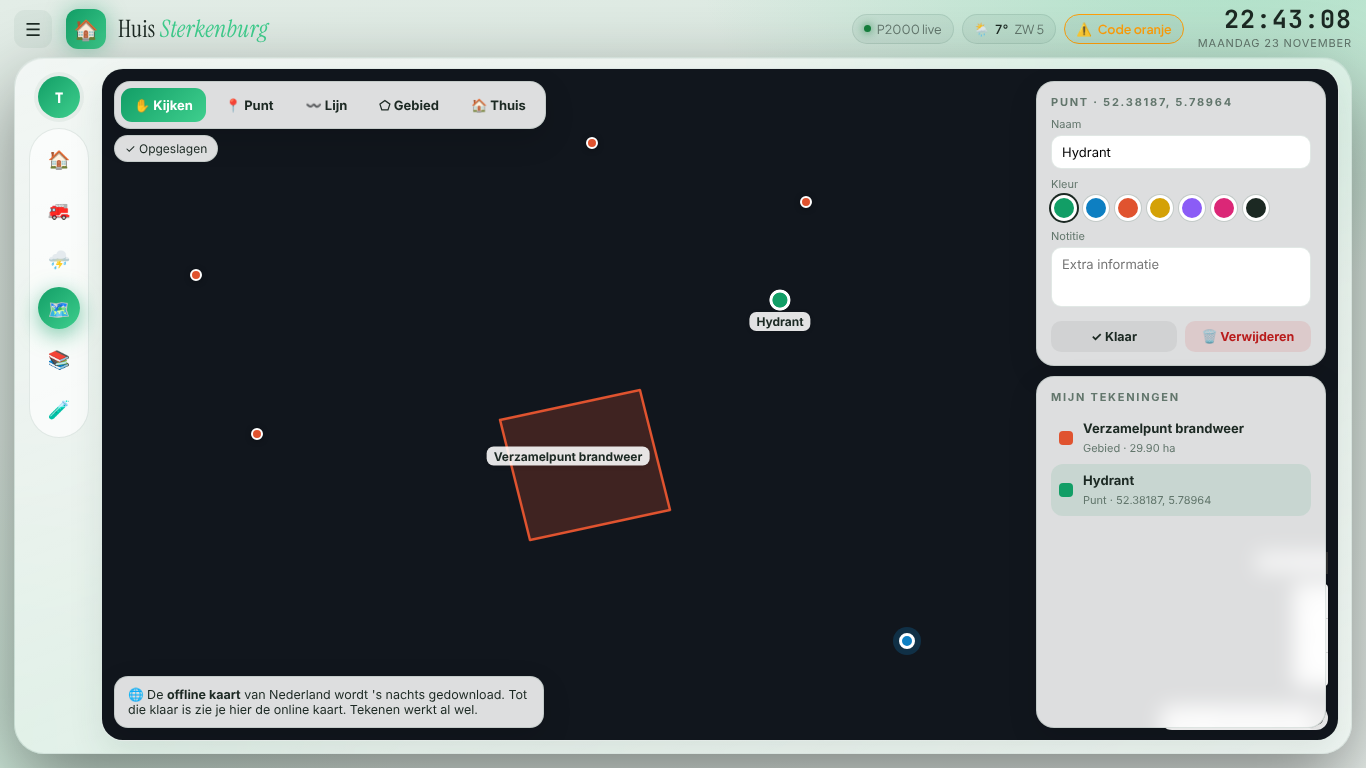
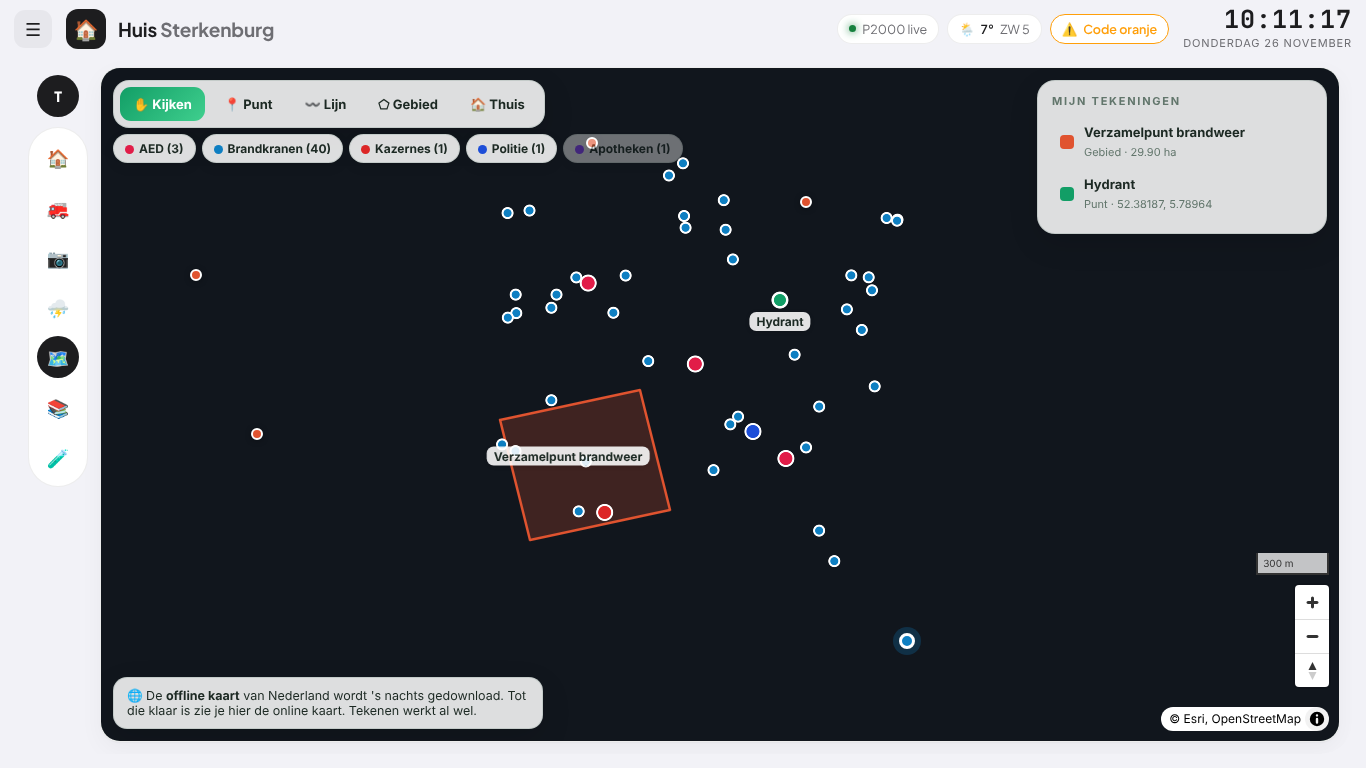
Thuisserver: startpagina voor de telefoon, noodkaart, Pi-hole en Tailscale
- Startpagina op poort 80 (via Caddy) met links naar dashboard, noodkaart,
  bibliotheek, meldkamer, weer, Pi-hole en camera's; als app op beginscherm
- Noodkaart: AED's, brandkranen, kazernes, ziekenhuizen, politie, apotheken
  en verzamelpunten uit OpenStreetMap, wekelijks ververst, aan/uit te zetten
- Pi-hole (poort 8081) en Tailscale met inloglink op de startpagina
- diensten.sh wordt door de automatische update geïnstalleerd
- Dashboard opent een tabblad via ?tab=

Claude-Session: https://claude.ai/code/session_0195ypcEwPeemUQZa3YdvhVV

diff --git a/meldkamer/start/index.html b/meldkamer/start/index.html
@@ -1,0 +1,115 @@
+<!doctype html>
+<html lang="nl">
+<head>
+<meta charset="utf-8">
+<meta name="viewport" content="width=device-width, initial-scale=1, viewport-fit=cover">
+<meta name="apple-mobile-web-app-capable" content="yes">
+<meta name="apple-mobile-web-app-title" content="Thuis">
+<meta name="theme-color" content="#f2f2f7" media="(prefers-color-scheme: light)">
+<meta name="theme-color" content="#000000" media="(prefers-color-scheme: dark)">
+<link rel="manifest" href="manifest.json">
+<link rel="apple-touch-icon" href="apple-touch-icon.png">
+<link rel="icon" href="icoon.svg">
+<title>Huis Sterkenburg</title>
+<style>
+  :root{--bg:#f2f2f7;--kaart:#fff;--tekst:#1d1d1f;--zacht:#6e6e73;--rand:rgba(0,0,0,.07);--accent:#1d1d1f;--opaccent:#fff;--goed:#16a34a;--let:#d97706}
+  @media (prefers-color-scheme: dark){:root{--bg:#000;--kaart:#1c1c1e;--tekst:#f5f5f7;--zacht:#98989d;--rand:rgba(255,255,255,.08);--accent:#f5f5f7;--opaccent:#000;--goed:#30d158;--let:#ff9f0a}}
+  *{box-sizing:border-box}
+  body{margin:0;background:var(--bg);color:var(--tekst);font-family:-apple-system,BlinkMacSystemFont,"Plus Jakarta Sans",Inter,system-ui,sans-serif;-webkit-font-smoothing:antialiased}
+  main{max-width:720px;margin:0 auto;padding:calc(env(safe-area-inset-top) + 22px) 16px calc(env(safe-area-inset-bottom) + 30px)}
+  h1{margin:0;font-size:32px;letter-spacing:-.02em}
+  .sub{color:var(--zacht);margin:4px 0 22px;font-size:15px}
+  .raster{display:grid;grid-template-columns:1fr 1fr;gap:12px}
+  a.tegel{display:flex;flex-direction:column;gap:10px;padding:16px;border-radius:20px;background:var(--kaart);border:1px solid var(--rand);text-decoration:none;color:inherit;min-height:124px;transition:transform .15s}
+  a.tegel:active{transform:scale(.97)}
+  .ic{width:44px;height:44px;border-radius:13px;display:grid;place-items:center;font-size:22px;background:var(--bg)}
+  .tegel b{font-size:16px}
+  .tegel small{color:var(--zacht);font-size:13px;line-height:1.35}
+  .tegel.breed{grid-column:1/-1;flex-direction:row;align-items:center;min-height:0}
+  .tegel.breed .ic{flex:none}
+  h2{font-size:13px;letter-spacing:.08em;text-transform:uppercase;color:var(--zacht);margin:26px 4px 10px}
+  .blok{background:var(--kaart);border:1px solid var(--rand);border-radius:20px;padding:16px;font-size:14.5px;line-height:1.5}
+  .blok + .blok{margin-top:10px}
+  .stip{display:inline-block;width:9px;height:9px;border-radius:50%;margin-right:6px;background:var(--zacht)}
+  .stip.aan{background:var(--goed)} .stip.let{background:var(--let)}
+  .knop{display:inline-block;margin-top:10px;padding:10px 16px;border-radius:12px;background:var(--accent);color:var(--opaccent);text-decoration:none;font-weight:700;font-size:14px}
+  code{font-size:13px;background:var(--bg);padding:2px 6px;border-radius:6px}
+  ol{margin:6px 0 0;padding-left:20px} li{margin:4px 0}
+</style>
+</head>
+<body>
+<main>
+  <h1>Huis Sterkenburg</h1>
+  <div class="sub" id="sub">Alles op één plek</div>
+
+  <div class="raster">
+    <a class="tegel breed" id="l-dashboard"><span class="ic">🏠</span><div><b>Dashboard</b><br><small>Lampen, rolluiken, meldingen en weer</small></div></a>
+    <a class="tegel" id="l-kaart"><span class="ic">🗺</span><b>Noodkaart</b><small>AED's, brandkranen, ziekenhuizen en je eigen tekeningen</small></a>
+    <a class="tegel" id="l-bieb"><span class="ic">📚</span><b>Bibliotheek</b><small>Wikipedia, EHBO, survival en reparatie, ook zonder internet</small></a>
+    <a class="tegel" id="l-meldkamer"><span class="ic">🚒</span><b>Meldkamer</b><small>Uitrukken post Nunspeet en politie in de buurt</small></a>
+    <a class="tegel" id="l-weer"><span class="ic">⛈</span><b>Weer & storm</b><small>Buienradar, verwachting en gevarenrisico</small></a>
+    <a class="tegel" id="l-pihole"><span class="ic">🛡</span><b>Reclameblokker</b><small id="pihole-tekst">Pi-hole: hoeveel reclame er is tegengehouden</small></a>
+    <a class="tegel" id="l-cams"><span class="ic">📷</span><b>Camera's</b><small>Alle camera's live</small></a>
+  </div>
+
+  <h2>Buiten de deur</h2>
+  <div class="blok" id="tailscale">Status wordt geladen…</div>
+
+  <h2>Reclame blokkeren op je iPhone</h2>
+  <div class="blok">
+    Thuis op de wifi:
+    <ol>
+      <li>Instellingen → Wifi → tik op <b>ⓘ</b> naast je netwerk</li>
+      <li>DNS configureren → <b>Handmatig</b></li>
+      <li>Verwijder wat er staat en voeg toe: <code id="dns-ip">…</code></li>
+    </ol>
+  </div>
+
+  <h2>Op je beginscherm zetten</h2>
+  <div class="blok">Tik in Safari op <b>Deel</b> (vierkantje met pijl) → <b>Zet op beginscherm</b>. Dan heb je een eigen app-icoontje.</div>
+</main>
+<script>
+  const host = location.hostname;
+  const ha = `http://${host}:8123`;
+  const links = {
+    "l-dashboard": `${ha}/meldkamer?tab=dashboard`,
+    "l-kaart": `${ha}/meldkamer?tab=kaart`,
+    "l-bieb": `http://${host}:8091/`,
+    "l-meldkamer": `${ha}/meldkamer?tab=meldkamer`,
+    "l-weer": `${ha}/meldkamer?tab=weer`,
+    "l-pihole": `http://${host}:8081/admin/`,
+    "l-cams": `${ha}/meldkamer?tab=cams`,
+  };
+  for (const [id, url] of Object.entries(links)) document.getElementById(id).href = url;
+  const u = new Date().getHours();
+  document.getElementById("sub").textContent =
+    (u < 6 ? "Goedenacht" : u < 12 ? "Goedemorgen" : u < 18 ? "Goedemiddag" : "Goedenavond") + " · alles op één plek";
+  const esc = (s) => String(s ?? "").replace(/[&<>"']/g, (c) => ({ "&": "&amp;", "<": "&lt;", ">": "&gt;", '"': "&quot;", "'": "&#39;" }[c]));
+
+  fetch("status.json?t=" + Date.now(), { cache: "no-store" })
+    .then((r) => r.json())
+    .then((st) => {
+      document.getElementById("dns-ip").textContent = st.lan || host;
+      if (st.pihole !== "aan") document.getElementById("pihole-tekst").textContent = "Wordt geïnstalleerd…";
+      const t = st.tailscale || {};
+      const el = document.getElementById("tailscale");
+      if (t.status === "Running" && t.ip) {
+        el.innerHTML = `<span class="stip aan"></span><b>Werkt overal</b><br>
+          Buiten de deur open je deze pagina via <code>http://${esc(t.ip)}/</code> (zet de <b>Tailscale</b>-app aan op je iPhone).
+          <br><a class="knop" href="http://${esc(t.ip)}/">Open via Tailscale</a>`;
+      } else if (t.inloglink) {
+        el.innerHTML = `<span class="stip let"></span><b>Nog één keer inloggen</b><br>
+          <ol><li>Installeer de gratis app <b>Tailscale</b> op je iPhone en log in (bijv. met Google of Apple).</li>
+          <li>Tik hieronder en log met <b>hetzelfde account</b> in om de laptop toe te voegen.</li></ol>
+          <a class="knop" href="${esc(t.inloglink)}" target="_blank" rel="noopener">Laptop koppelen</a>`;
+      } else {
+        el.innerHTML = `<span class="stip"></span>Tailscale wordt geïnstalleerd. Kijk over 10 minuten nog eens.`;
+      }
+    })
+    .catch(() => {
+      document.getElementById("tailscale").textContent = "Status nog niet beschikbaar. Kijk over 10 minuten nog eens.";
+      document.getElementById("dns-ip").textContent = host;
+    });
+</script>
+</body>
+</html>

diff --git a/meldkamer/config/www/meldkamer/kaart.html b/meldkamer/config/www/meldkamer/kaart.html
@@ -37,7 +37,12 @@
   .rij button{flex:1;padding:8px;border-radius:10px;font-weight:700;font-size:12.5px;background:rgba(0,0,0,.05)}
   .rij .weg{background:rgba(220,38,38,.1);color:#b91c1c}
   .melding{position:absolute;left:12px;bottom:12px;z-index:5;max-width:430px;font-size:12.5px;padding:10px 13px;border-radius:14px;background:var(--glas);border:1px solid var(--rand);box-shadow:0 10px 30px rgba(0,0,0,.12)}
-  .opgeslagen{position:absolute;top:66px;left:12px;z-index:5;font-size:12px;padding:5px 10px;border-radius:999px;background:var(--glas);border:1px solid var(--rand);opacity:0;transition:opacity .4s}
+  .lagen{position:absolute;top:66px;left:12px;z-index:5;display:flex;gap:6px;flex-wrap:wrap;max-width:calc(100% - 330px)}
+  .lagen button{padding:6px 11px;border-radius:999px;font-size:12px;font-weight:700;background:var(--glas);border:1px solid var(--rand);box-shadow:0 4px 12px rgba(0,0,0,.08)}
+  .lagen button.uit{opacity:.45}
+  .lagen button i{display:inline-block;width:9px;height:9px;border-radius:50%;margin-right:5px;vertical-align:middle}
+  @media (max-width:700px){.lagen{max-width:calc(100% - 24px)}}
+  .opgeslagen{position:absolute;top:112px;left:12px;z-index:5;font-size:12px;padding:5px 10px;border-radius:999px;background:var(--glas);border:1px solid var(--rand);opacity:0;transition:opacity .4s}
   .opgeslagen.zie{opacity:1}
   .maplibregl-ctrl-group button{width:34px;height:34px}
   @media (max-width:700px){.zij{top:auto;left:12px;width:auto;height:42%}.balk{flex-wrap:wrap;right:12px}}
@@ -54,6 +59,7 @@
   <button id="thuis">🏠 Thuis</button>
 </div>
 <div class="opgeslagen" id="opgeslagen">✓ Opgeslagen</div>
+<div class="lagen" id="lagen"></div>
 <div class="zij">
   <div class="blok" id="editor" style="display:none"></div>
   <div class="blok lijst"><h3>Mijn tekeningen</h3><div id="lijst"></div></div>
@@ -128,7 +134,52 @@
     geladen = true;
     laad();
     thuisPunt();
+    noodLaag();
   };
+
+  // ---------- noodlaag uit OpenStreetMap ----------
+  const SOORTEN = {
+    aed: ["❤ AED", "#e11d48"], brandkraan: ["🚒 Brandkranen", "#0e7fc2"], kazerne: ["🏠 Kazernes", "#dc2626"],
+    ziekenhuis: ["🏥 Ziekenhuizen", "#16a34a"], huisartsenpost: ["🩺 Huisartsenpost", "#0d9488"], politie: ["👮 Politie", "#1d4ed8"],
+    apotheek: ["💊 Apotheken", "#7c3aed"], verzamelpunt: ["🚩 Verzamelpunten", "#d97706"],
+  };
+  const BESCHRIJF = { aed: "AED", brandkraan: "Brandkraan", kazerne: "Brandweerkazerne", ziekenhuis: "Ziekenhuis", huisartsenpost: "Huisartsenpost", politie: "Politie", apotheek: "Apotheek", verzamelpunt: "Verzamelpunt" };
+  let uitgezet;
+  try { uitgezet = JSON.parse(localStorage.getItem("kaart_lagen_uit") || '["brandkraan","apotheek"]'); } catch (e) { uitgezet = ["brandkraan", "apotheek"]; }
+  async function noodLaag() {
+    let data = null;
+    try { const r = await fetch(DATA + "/nood.geojson", { cache: "no-store" }); if (r.ok) data = await r.json(); } catch (e) { data = null; }
+    const balk = document.getElementById("lagen");
+    if (!data || !data.features?.length) { balk.innerHTML = `<button class="uit" disabled>❤ AED's worden 's nachts opgehaald</button>`; return; }
+    map.addSource("nood", { type: "geojson", data });
+    const aanwezig = Object.keys(SOORTEN).filter((k) => data.features.some((f) => f.properties.soort === k));
+    aanwezig.forEach((k) => {
+      map.addLayer({ id: "nood-" + k, type: "circle", source: "nood", filter: ["==", ["get", "soort"], k],
+        layout: { visibility: uitgezet.includes(k) ? "none" : "visible" },
+        paint: { "circle-radius": k === "brandkraan" ? 4.5 : 7, "circle-color": SOORTEN[k][1], "circle-stroke-color": "#fff", "circle-stroke-width": 2 } });
+      map.on("click", "nood-" + k, (e) => {
+        const p = e.features[0].properties;
+        const regels = [p.plek && "📍 " + p.plek, p.open && "🕐 " + p.open.replace("24/7", "dag en nacht"), p.toegang && "🔓 " + ({ yes: "openbaar", private: "alleen voor personeel", customers: "alleen voor bezoekers", permissive: "toegankelijk" }[p.toegang] || p.toegang),
+          (p.straat || p.nr) && "🏠 " + [p.straat, p.nr].filter(Boolean).join(" "), p.telefoon && "📞 " + p.telefoon, p.uitleg].filter(Boolean);
+        new maplibregl.Popup({ offset: 10 }).setLngLat(e.lngLat)
+          .setHTML(`<b>${esc(p.naam || BESCHRIJF[k])}</b>${p.naam ? `<br><small>${BESCHRIJF[k]}</small>` : ""}${regels.length ? "<br>" + regels.map(esc).join("<br>") : ""}
+            <br><a href="https://www.google.com/maps/dir/?api=1&destination=${e.lngLat.lat},${e.lngLat.lng}&travelmode=walking" target="_blank" rel="noopener">🚶 Route</a>`).addTo(map);
+      });
+      map.on("mouseenter", "nood-" + k, () => (map.getCanvas().style.cursor = "pointer"));
+      map.on("mouseleave", "nood-" + k, () => (map.getCanvas().style.cursor = ""));
+    });
+    const teken = () => (balk.innerHTML = aanwezig.map((k) => `<button data-laag="${k}" class="${uitgezet.includes(k) ? "uit" : ""}"><i style="background:${SOORTEN[k][1]}"></i>${SOORTEN[k][0].replace(/^\S+ /, "")} (${data.features.filter((f) => f.properties.soort === k).length})</button>`).join(""));
+    teken();
+    balk.onclick = (e) => {
+      const b = e.target.closest("[data-laag]");
+      if (!b) return;
+      const k = b.dataset.laag;
+      uitgezet = uitgezet.includes(k) ? uitgezet.filter((x) => x !== k) : [...uitgezet, k];
+      try { localStorage.setItem("kaart_lagen_uit", JSON.stringify(uitgezet)); } catch (e2) {}
+      map.setLayoutProperty("nood-" + k, "visibility", uitgezet.includes(k) ? "none" : "visible");
+      teken();
+    };
+  }
   map.on("load", start);
   setTimeout(start, 4000); // ook als een kaartlaag niet laadt
 

diff --git a/meldkamer/config/www/meldkamer/meldkamer-panel.js b/meldkamer/config/www/meldkamer/meldkamer-panel.js
@@ -1077,7 +1077,9 @@ class HuisPanel extends HTMLElement {
     this._audio();
     this._laadExtra();
     this._toonWeerTab();
-    this._toonPagina(this._thuis);
+    const gevraagd = new URLSearchParams(location.search).get("tab") || (location.hash || "").replace("#", "");
+    this._toonPagina(["dashboard", "meldkamer", "cams", "weer", "kaart", "bibliotheek", "test"].includes(gevraagd) ? gevraagd : this._thuis);
+    if (gevraagd) this._actief = Date.now();
     const naam = (this._hass.user?.name || "S").trim();
     this.shadowRoot.getElementById("avatar").textContent = naam[0].toUpperCase();
     try {
